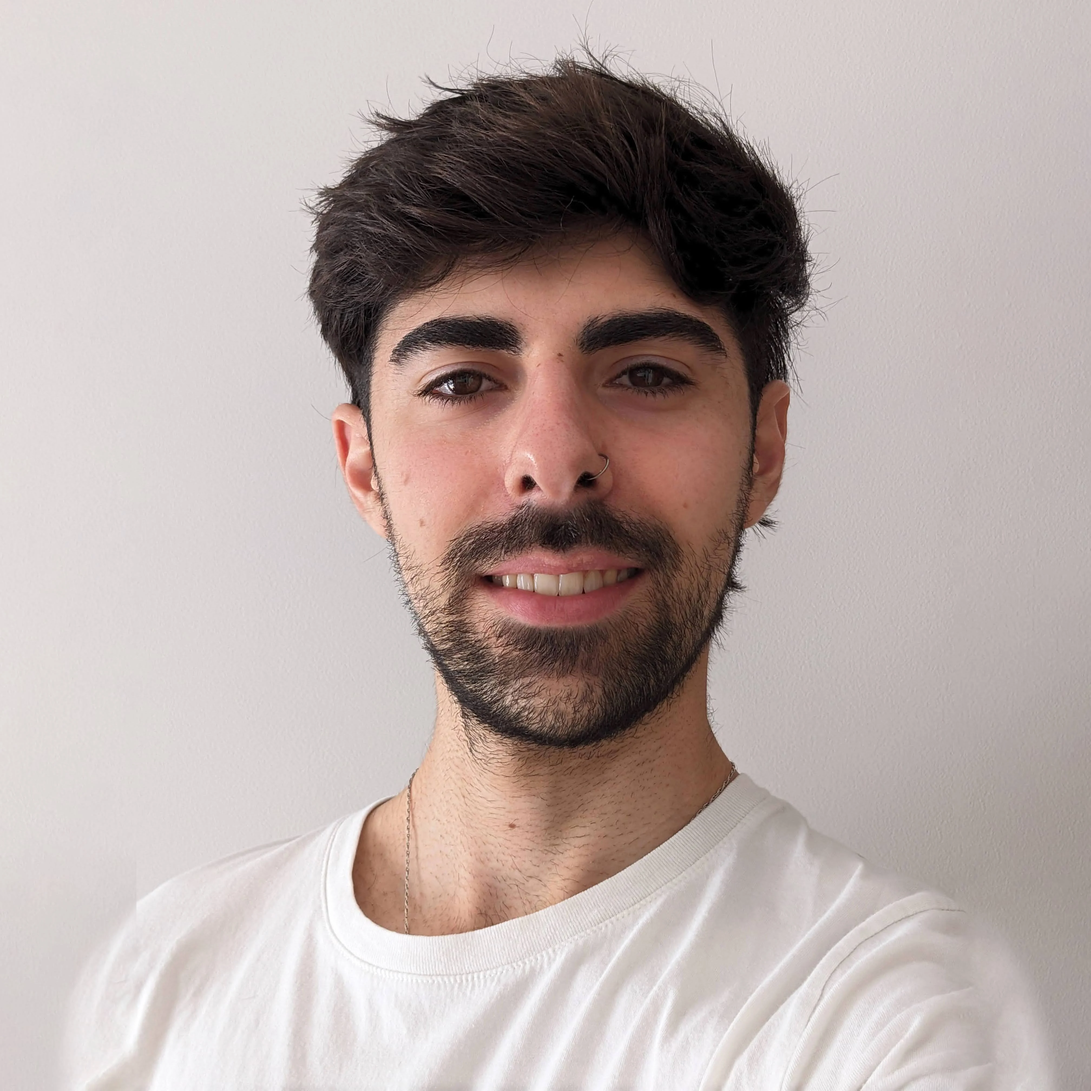
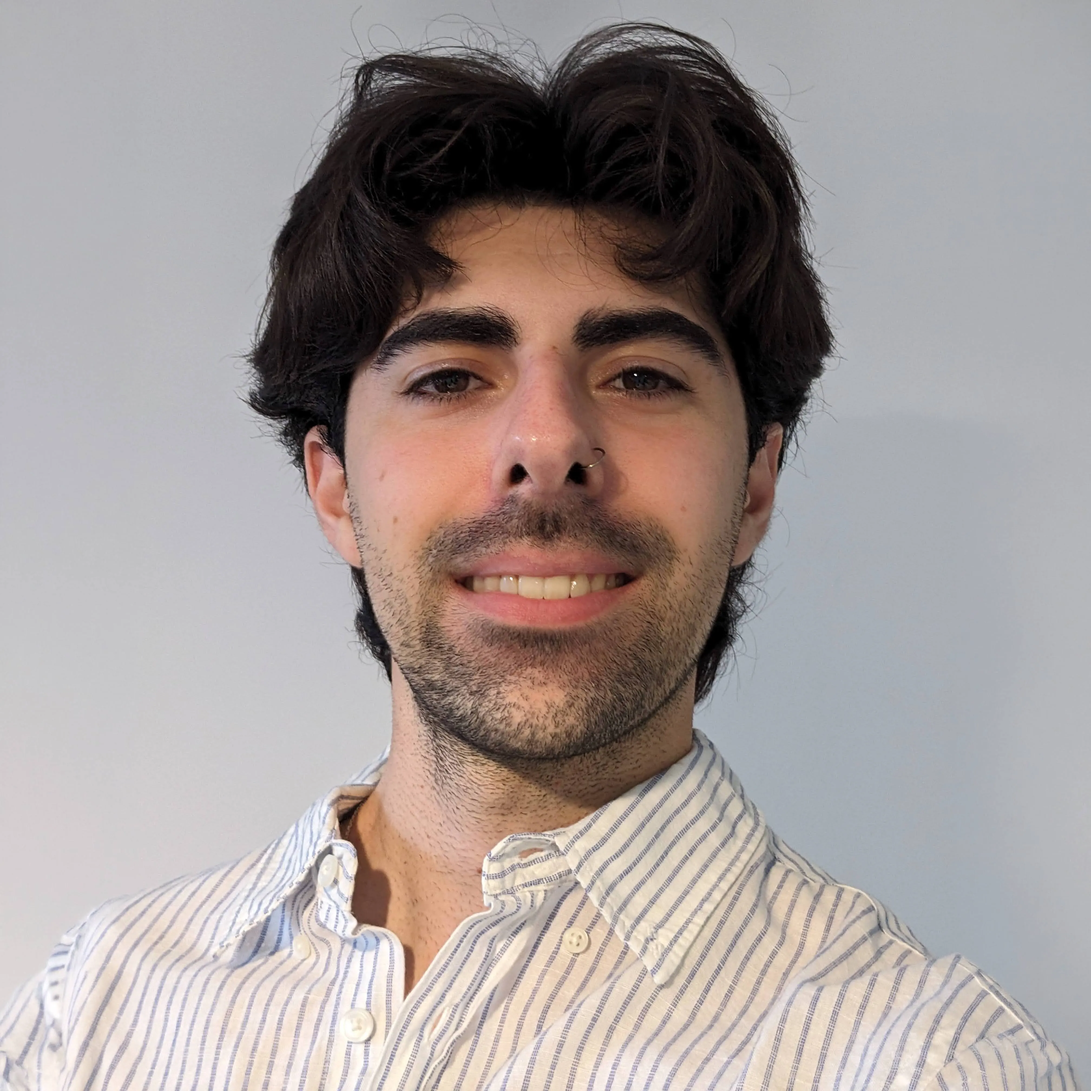
Actualizar foto de perfil con cache-busting, fechas de educacion/experiencia y anadir Festival Arch al CV

diff --git a/index.html b/index.html
@@ -395,7 +395,7 @@
             <div class="cv-title-sub" data-i18n="cvRoleTitle">Maestro Mayor de Obras</div>
             <div class="cv-profile-row">
               <div class="cv-photo-wrapper">
-                <img src="assets/foto de perfil.webp" alt="Agustín Labajian" class="cv-avatar-img">
+                <img src="assets/foto de perfil.webp?v=2" alt="Agustín Labajian" class="cv-avatar-img">
               </div>
               <p class="cv-bio" data-i18n="cvBio">
                 Estudiante avanzado de Arquitectura (FADU–UBA) y Maestro Mayor de Obras, con experiencia en modelado BIM y documentación técnica en estudios nacionales e internacionales. Manejo avanzado de Revit y fuerte interés en el área de proyecto y representación arquitectónica.
@@ -430,7 +430,7 @@
           <div class="cv-item">
             <div class="cv-item-header">
               <span class="cv-item-role"><span data-i18n="cvEdu1Degree">Arquitectura</span> <span class="cv-item-status" data-i18n="cvEdu1Status">— en curso (2 materias pendientes)</span></span>
-              <span class="cv-item-date" data-i18n="cvEduItem1Date">2021 – act.</span>
+              <span class="cv-item-date" data-i18n="cvEduItem1Date">2021 – act</span>
             </div>
             <div class="cv-item-subline">
               <span class="cv-item-company" data-i18n="cvEdu1School">Universidad de Buenos Aires</span>
@@ -458,11 +458,22 @@
         <div class="cv-block">
           <div class="cv-section-h3" data-i18n="cvExpHead">Experiencia Laboral</div>
 
-          <!-- 1. MODELADOR BIM JUNIOR -->
+          <!-- 1. MODELADOR BIM SEMI SENIOR -->
+          <div class="cv-item">
+            <div class="cv-item-header">
+              <span class="cv-item-role" data-i18n="exp0Role">Modelador BIM Semi Senior</span>
+              <span class="cv-item-date" data-i18n="exp0Date">nov 2026 – act</span>
+            </div>
+            <div class="cv-item-subline">
+              <span class="cv-item-company">Festival Arch</span>
+            </div>
+          </div>
+
+          <!-- 2. MODELADOR BIM JUNIOR -->
           <div class="cv-item">
             <div class="cv-item-header">
               <span class="cv-item-role" data-i18n="exp1Role">Modelador BIM Junior</span>
-              <span class="cv-item-date" data-i18n="exp1Date">feb 2025 – act.</span>
+              <span class="cv-item-date" data-i18n="exp1Date">feb 25 – oct. 26</span>
             </div>
             <div class="cv-item-subline">
               <span class="cv-item-company">CA architects</span>

diff --git a/script.js b/script.js
@@ -70,15 +70,17 @@ const i18n = {
     cvEdu1Status: '— en curso (2 materias pendientes)',
     cvEdu1School: 'Universidad de Buenos Aires',
     cvEdu1Faculty: 'Facultad de Arquitectura, Diseño y Urbanismo',
-    cvEduItem1Date: '2021 – act.',
+    cvEduItem1Date: '2021 – act',
     cvEduItem2Role: 'Maestro Mayor de Obras',
     cvEdu2Level: 'Escuela Secundaria Técnica',
     cvEdu2School: 'Instituto Tecnológico San Bonifacio',
     cvEduItem2Date: '2013 – 2019',
     
     cvExpHead: 'Experiencia Laboral',
+    exp0Role: 'Modelador BIM Semi Senior',
+    exp0Date: 'nov 2026 – act',
     exp1Role: 'Modelador BIM Junior',
-    exp1Date: 'feb 2025 – act.',
+    exp1Date: 'feb 25 – oct. 26',
     exp1Tag: 'estudio internacional',
     exp1B1: 'Desarrollo y modelado BIM en Revit de documentación técnica para proyectos de mediana escala (establecimientos educativos), trabajando en idioma inglés y bajo el sistema imperial de unidades.',
     exp1B2: 'Elaboración de Permit Sets completos para las fases de Design Development (DD) y Construction Documents (CD), adaptando el diseño a los códigos de edificación de San Francisco.',
@@ -220,8 +222,10 @@ const i18n = {
     cvEduItem2Date: '2013 – 2019',
 
     cvExpHead: 'Work Experience',
+    exp0Role: 'Mid-Level BIM Modeler',
+    exp0Date: 'nov 2026 – present',
     exp1Role: 'Junior BIM Modeler',
-    exp1Date: 'feb 2025 – present',
+    exp1Date: 'feb 25 – oct. 26',
     exp1Tag: 'international studio',
     exp1B1: 'Developed and modeled technical documentation in Revit for medium-scale projects (educational facilities), working entirely in English and utilizing the Imperial unit system.',
     exp1B2: 'Prepared comprehensive Permit Sets for both Design Development (DD) and Construction Documents (CD) phases, ensuring compliance with San Francisco building codes.',
